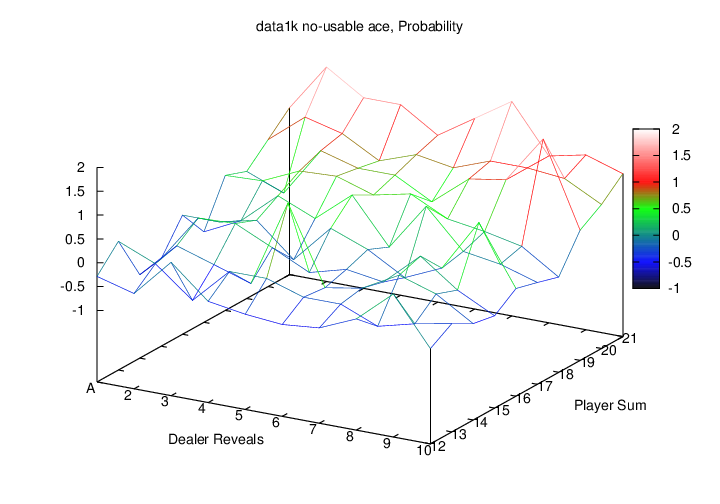
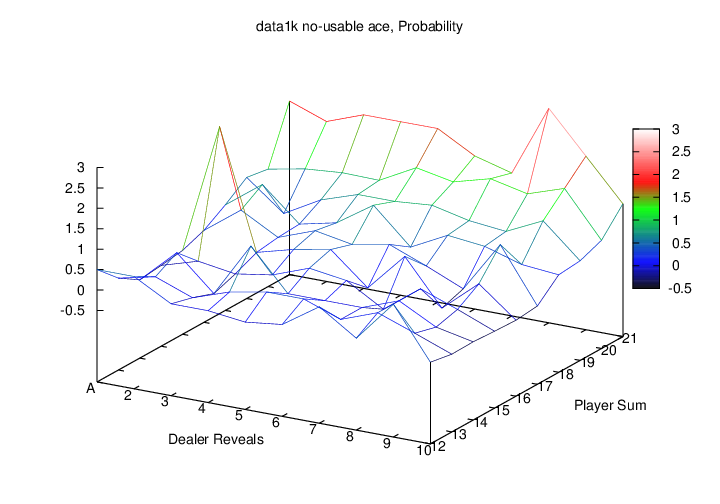
Added quick analysis and some fixed graphs

diff --git a/game/agent.cpp b/game/agent.cpp
@@ -19,9 +19,9 @@ Agent::Agent( Game* gmptr) {
 	for(int i = 0; i < 10; i++)
 	for(int j = 0; j < 10; j++)
 	for(int k = 0; k < 2; k++) {
-		qval[i][j][k][STAY] = 1;
+		qval[i][j][k][STAY] = 2;
 		visit[i][j][k][STAY] = 0;
-		qval[i][j][k][HIT] = 1;
+		qval[i][j][k][HIT] = 2;
 		visit[i][j][k][HIT] = 0;
 	}
 
